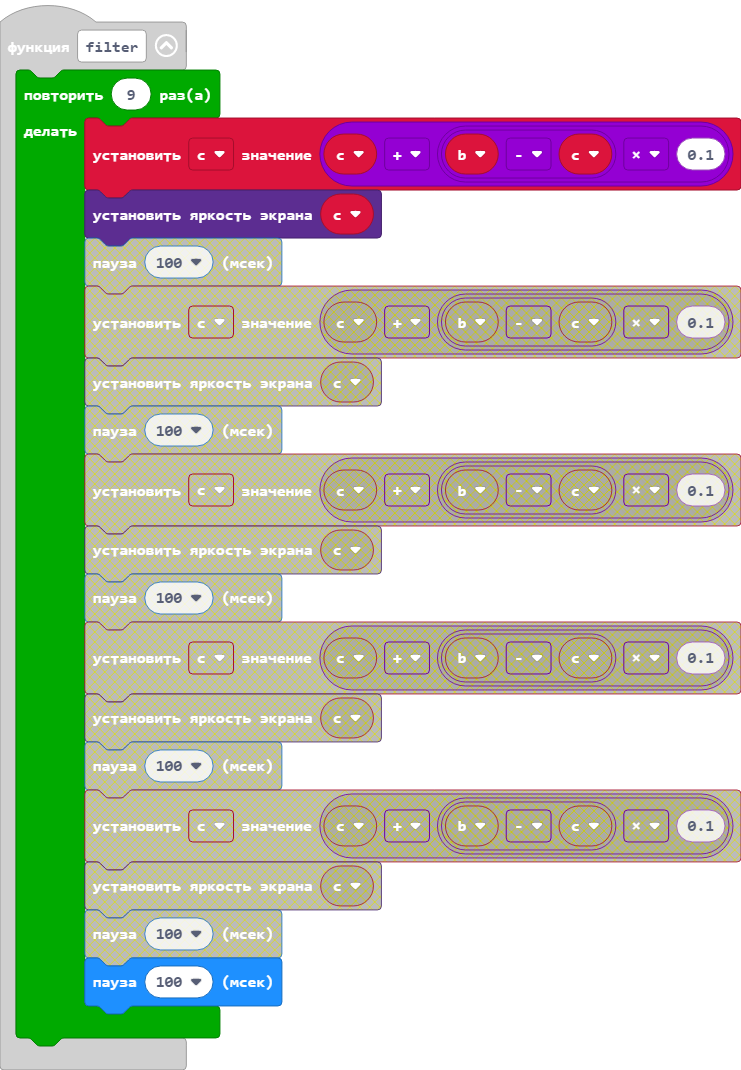
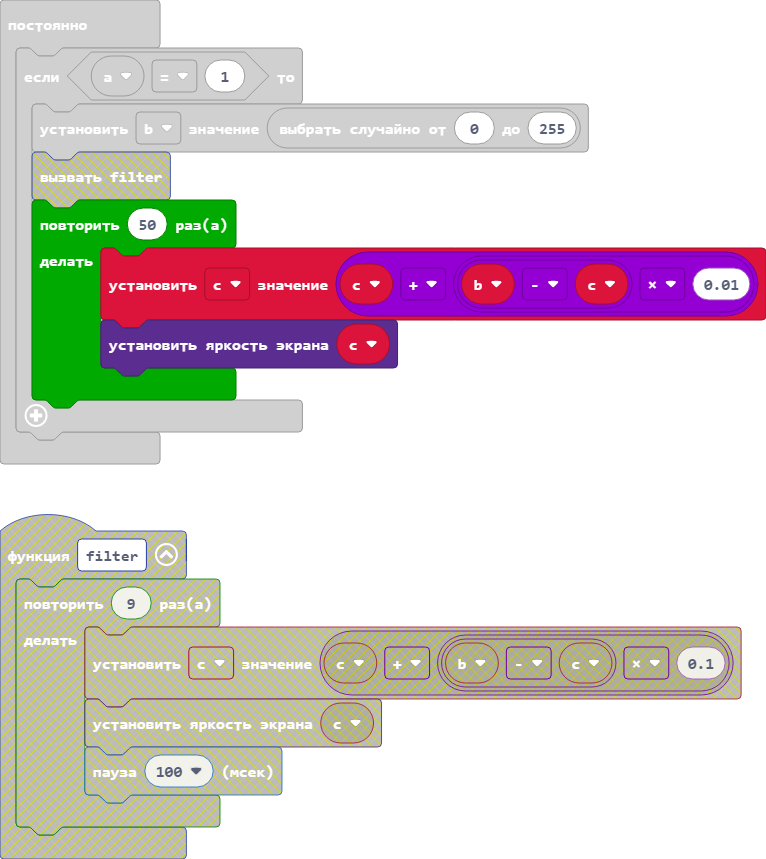
20

diff --git a/main.ts b/main.ts
@@ -2,22 +2,14 @@ input.onButtonPressed(Button.A, function () {
     a = 0
     led.enable(false)
 })
-function filter () {
-    for (let index = 0; index < 9; index++) {
-        c = c + (b - c) * 0.1
-        led.setBrightness(c)
-        basic.pause(100)
-    }
-}
 input.onButtonPressed(Button.B, function () {
     a = 1
     led.enable(true)
 })
 let b = 0
-let c = 0
 let a = 0
 a = 0
-c = 255
+let c = 255
 led.enable(false)
 led.plot(0, 0)
 led.plot(1, 0)
@@ -47,6 +39,9 @@ led.plot(4, 4)
 basic.forever(function () {
     if (a == 1) {
         b = randint(0, 255)
-        filter()
+        for (let index = 0; index < 50; index++) {
+            c = c + (b - c) * 0.01
+            led.setBrightness(c)
+        }
     }
 })
